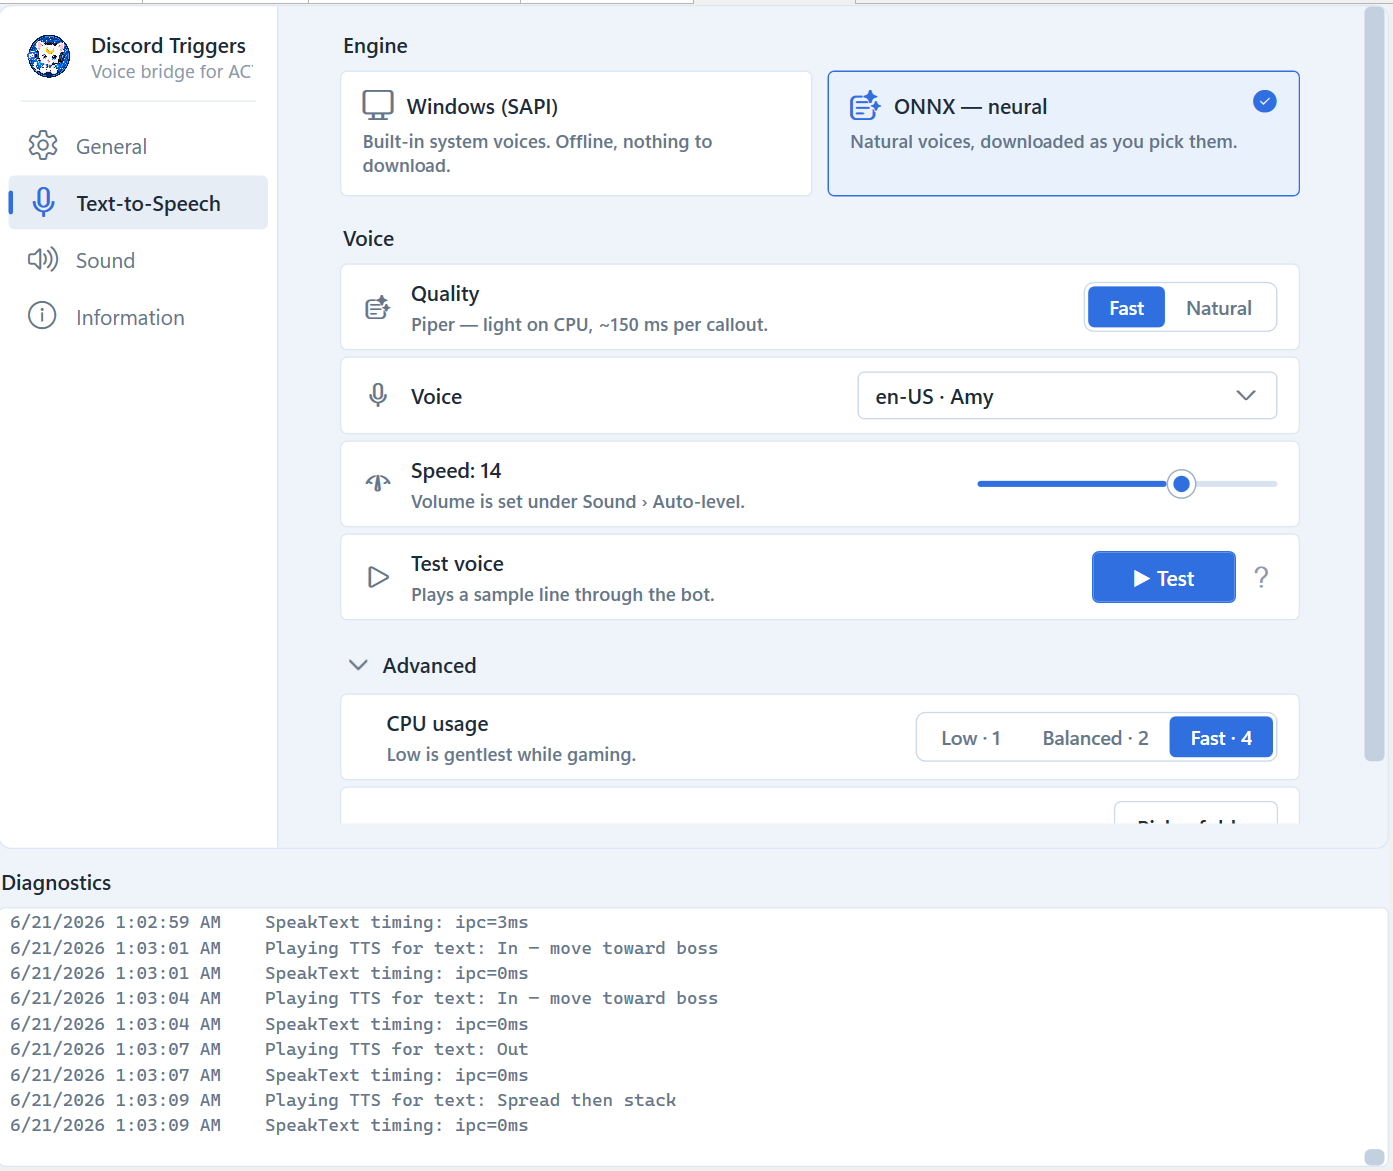
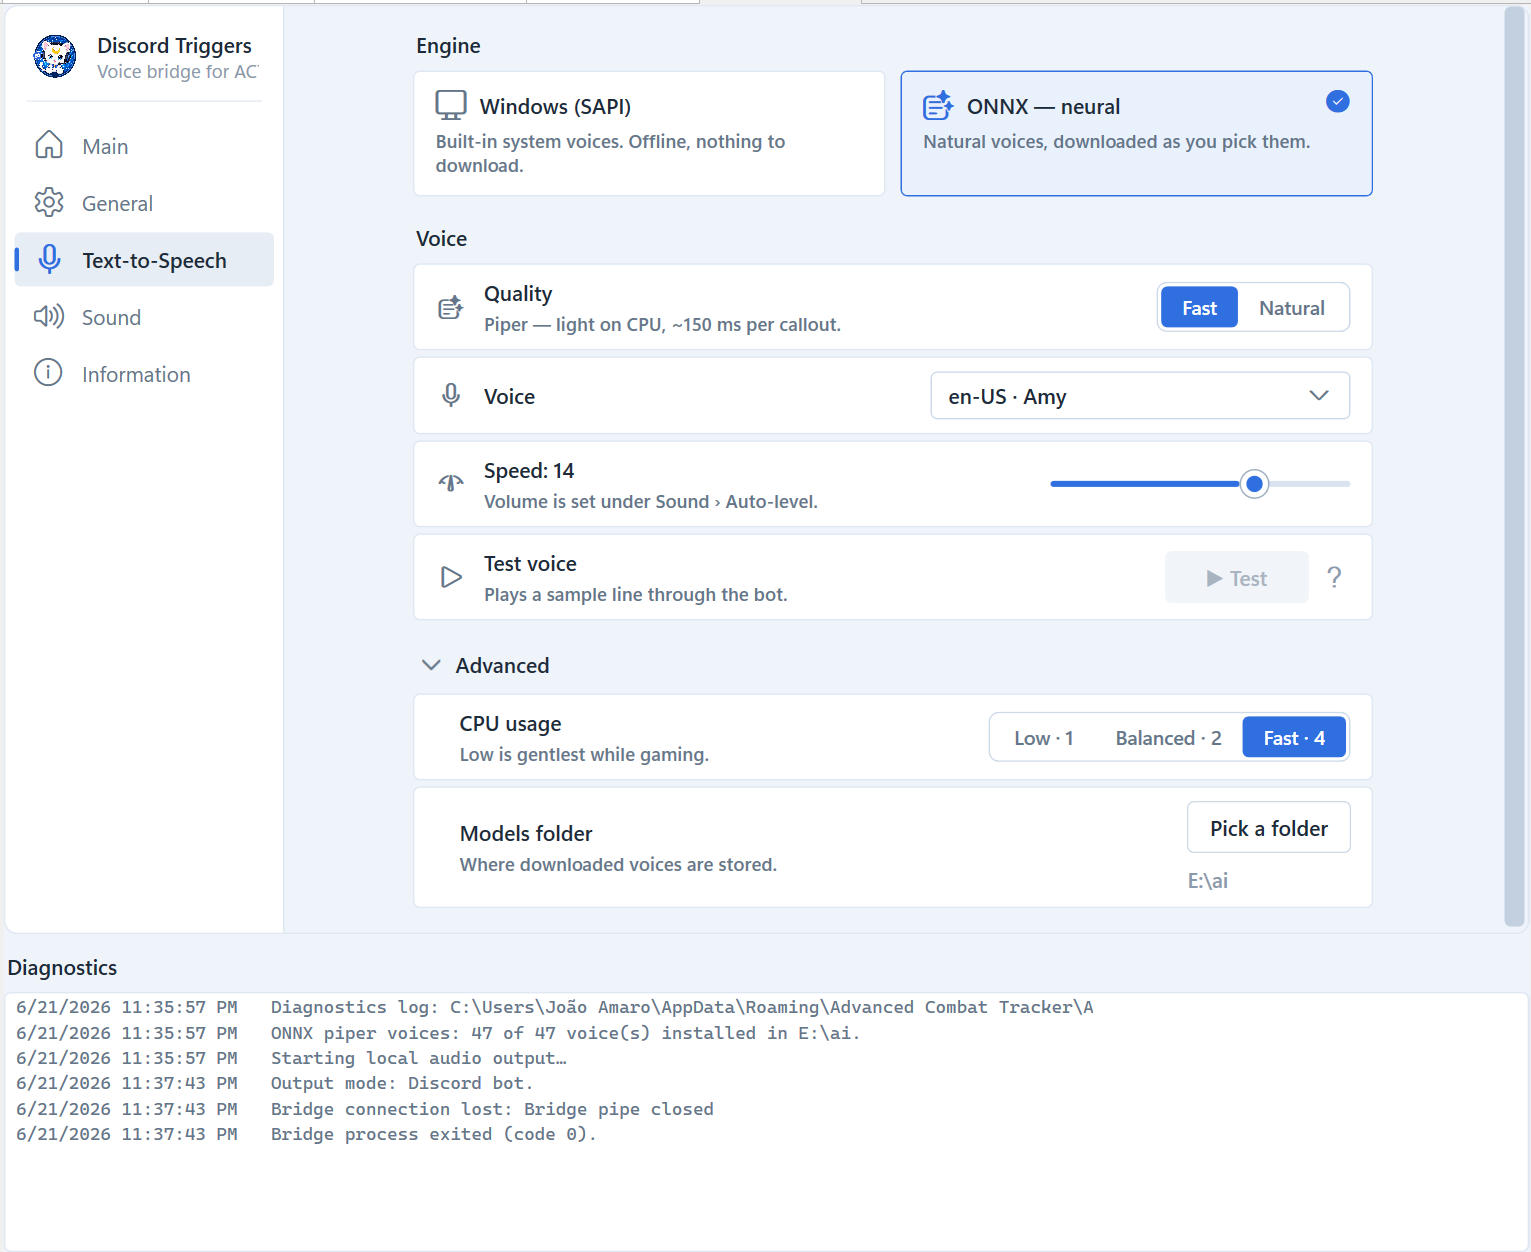
Release 2.1.0: local output mode, master limiter, LUFS leveling, audio quality
Bump version to 2.1.0 and refresh the README screenshots + feature list to
cover the features added since 2.0.4: the Main-tab output-mode choice
(Discord bot vs local PC playback), the master bus limiter, LUFS
auto-leveling, and the selectable Discord audio-quality bitrate. Adds a Main
screenshot.

diff --git a/README.md b/README.md
@@ -23,12 +23,17 @@ Works with ACT **Custom Triggers**, **Triggernometry**, and **Triggevent**.
 
 ## Screenshots
 
-| General — connect & join | Text-to-Speech — engine & voice | Sound — effects & leveling |
-| :---: | :---: | :---: |
-| ![General settings tab](docs/screenshot-general.png) | ![Text-to-Speech settings tab](docs/screenshot-tts.png) | ![Sound settings tab](docs/screenshot-sound.png) |
+| Main — output mode | General — connect & join |
+| :---: | :---: |
+| ![Main settings tab](docs/screenshot-main.png) | ![General settings tab](docs/screenshot-general.png) |
+| **Text-to-Speech — engine & voice** | **Sound — effects & leveling** |
+| ![Text-to-Speech settings tab](docs/screenshot-tts.png) | ![Sound settings tab](docs/screenshot-sound.png) |
 
 ## Features
 
+- 🖥️ **Two output modes** — stream triggers to a **Discord voice channel** for
+  the whole party, or play them **locally on this PC's speakers** with no bot or
+  Discord login required. Switch on the **Main** tab.
 - 🔊 **TTS in voice chat** — fire trigger text-to-speech straight into a Discord
   voice channel.
 - 🧠 **Neural voices** — an optional **ONNX** engine plays natural-sounding
@@ -41,8 +46,12 @@ Works with ACT **Custom Triggers**, **Triggernometry**, and **Triggevent**.
   queueing, so nothing gets dropped or delayed.
 - 🎲 **Random sound effects** — optionally add a random audio effect (echo,
   reverb, pitch-shift, and more) to triggers as they play.
-- 📈 **Auto-leveling** — automatically evens out the volume so every callout
-  and sound plays at a consistent level.
+- 📈 **Auto-leveling** — perceptual **LUFS** loudness matching evens out the
+  volume so every callout and sound plays at a consistent level.
+- 🎛️ **Master limiter** — a look-ahead brickwall limiter rides overlapping
+  triggers down to a true-peak-safe ceiling, so simultaneous sounds never clip.
+- 📡 **Selectable audio quality** — choose the Discord voice bitrate (48 / 96 /
+  128 kbps) to trade bandwidth for clarity.
 - 🔐 **Discord DAVE support** — speaks Discord's end-to-end voice encryption,
   which is now required to join voice channels.
 